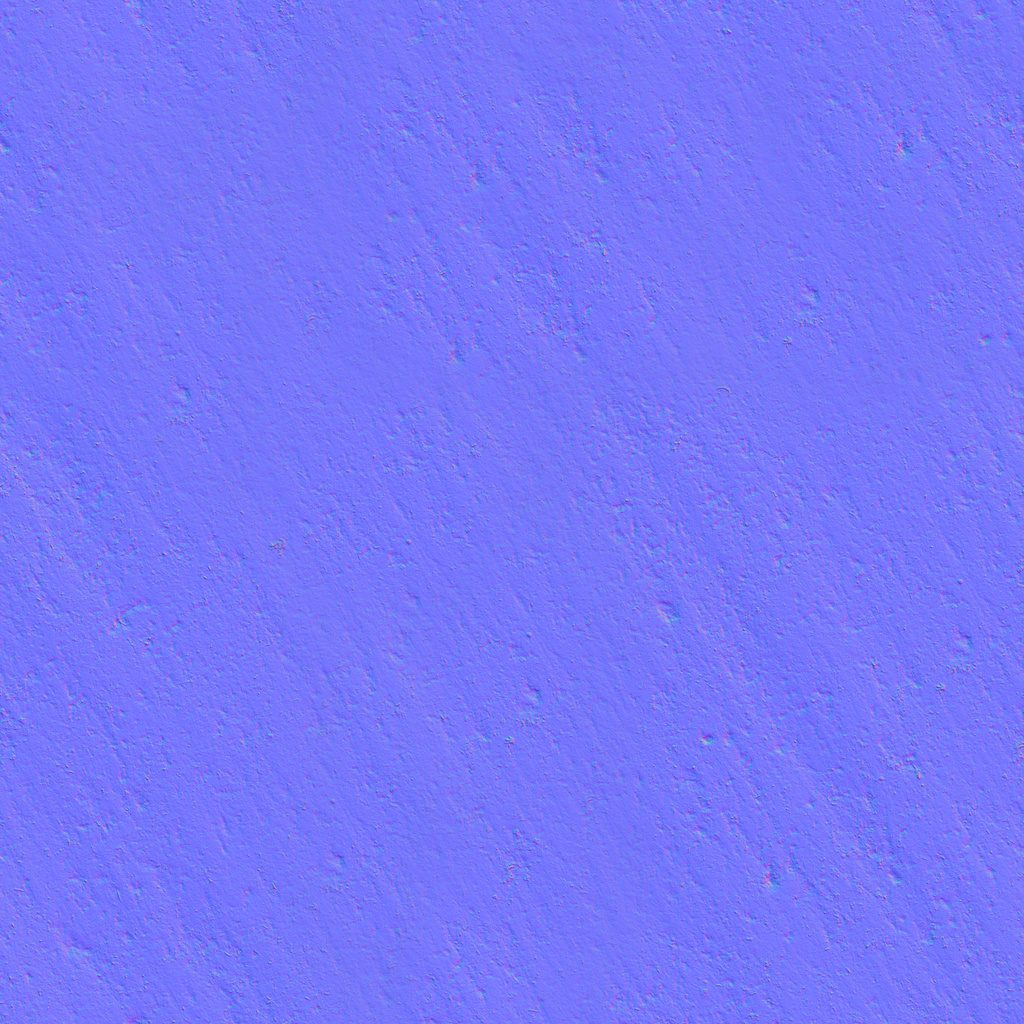
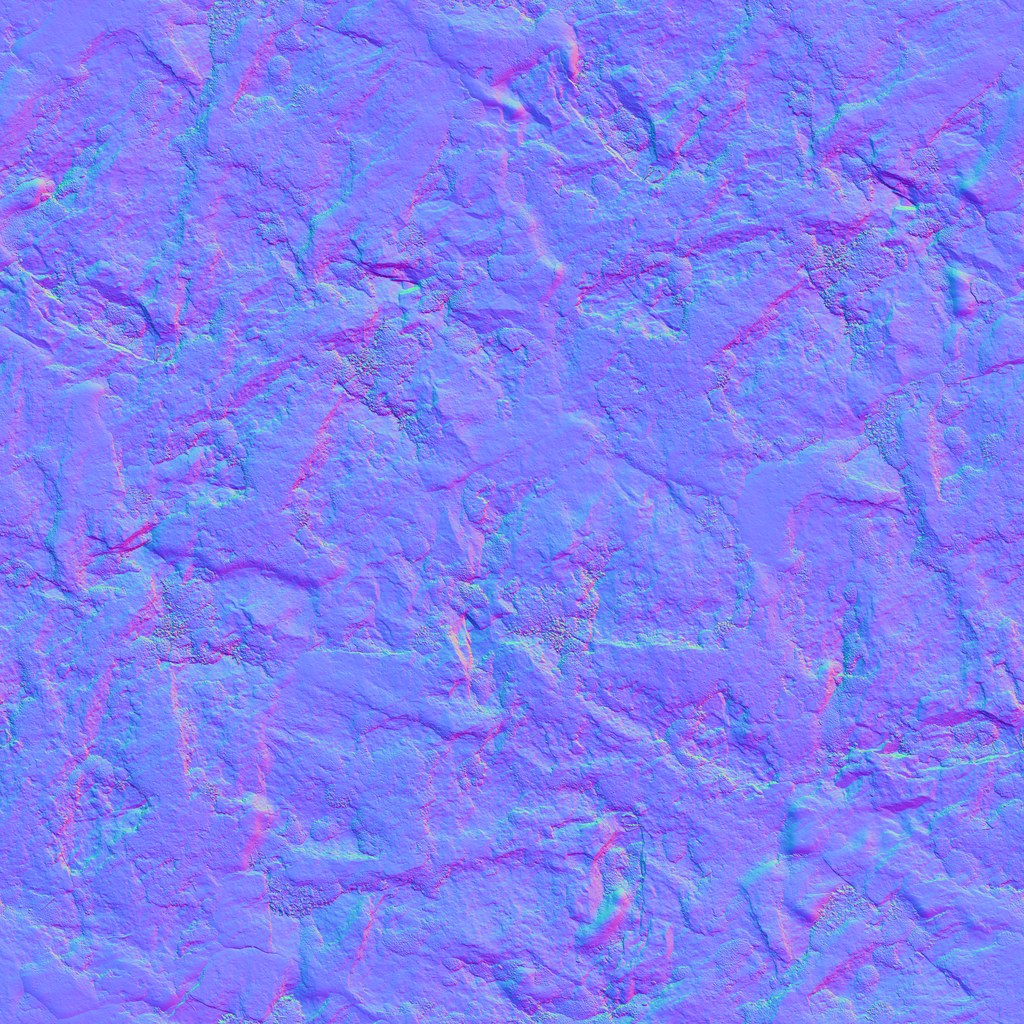
H1: Outlet jets on O'Shaughnessy Dam; grey granite from ambientCG
Two valve outlets ~30 m below the crest near mid-length (placed by eye from a visitor's
photograph; structures.json outlets) pour white aerated plumes down the downstream face to
the pool, with a dark wet stain and black openings on the concrete. Illustrative release.

The granite layers are now grey CC0 ambientCG rock: Rock020 (streaked walls), Rock043L
(speckled slab) and Rock058 (water-polished canyon), replacing brown Poly Haven photos.
Each photo contributes its light and dark in a neutral warm-grey granite colour, with a
fifth of its own hue. Third-party notices list the textures.

diff --git a/renderer/land/structures.js b/renderer/land/structures.js
@@ -6,7 +6,7 @@
 import * as THREE from "../../vendor/three/three.webgpu.js";
 import {
   texture, positionWorld, normalWorld, cameraPosition, vec3, float, max, min, dot, normalize, uv, mix,
-  smoothstep, fract, abs, pow, reflect, mx_noise_float, time,
+  smoothstep, fract, abs, pow, reflect, mx_noise_float, time, Fn, If, Discard,
 } from "../../vendor/three/three.tsl.js";
 
 // Cross-section across the dam in metres: u downstream from the upstream face, y below the
@@ -121,6 +121,66 @@ export function riverGeometry(river, meta) {
   return g;
 }
 
+// Where a dam's outlet sits: { p, t (along the crest), n (downstream), along (m) } for the
+// point `outlet.along` (0-1, from the crest's first point) of its length.
+export function outletFrame(dam, meta, downstream, outlet) {
+  const pts = crestCurve(crestScene(dam, meta)),
+    lengths = [0];
+  for (let i = 1; i < pts.length; i++) lengths.push(lengths[i - 1] + pts[i].distanceTo(pts[i - 1]));
+  const along = outlet.along * lengths.at(-1),
+    i = Math.max(1, lengths.findIndex((l) => l >= along)),
+    f = (along - lengths[i - 1]) / Math.max(1e-6, lengths[i] - lengths[i - 1]),
+    p = new THREE.Vector3().lerpVectors(pts[i - 1], pts[i], f),
+    t = new THREE.Vector3().subVectors(pts[i], pts[i - 1]).normalize(),
+    n = new THREE.Vector3(-t.z, 0, t.x).multiplyScalar(downstream);
+  return { p, t, n, along };
+}
+
+// A jet from an outlet as a ribbon falling down the downstream face to the toe: it leaves the
+// face a little and spreads as it falls (gravityProfile's face: vertical 6 m, then 0.75:1).
+// uv: x 0-1 across, y metres fallen.
+export function plumeGeometry(dam, meta, downstream, outlet) {
+  const { p, t, n } = outletFrame(dam, meta, downstream, outlet),
+    top = dam.crestElevation - meta.waterLevel,
+    positions = [],
+    uvs = [],
+    index = [];
+  const steps = 40;
+  for (let k = 0; k <= steps; k++) {
+    const d = outlet.below + ((dam.height - outlet.below) * k) / steps,
+      fall = d - outlet.below,
+      face = d <= 6 ? 7.5 : 7.5 + 0.75 * (d - 6),
+      off = face + 0.8 + Math.min(2.5, fall * 0.06),
+      half = 0.9 + fall * 0.07;
+    for (const s of [-1, 1]) {
+      positions.push(p.x + n.x * off + t.x * half * s, top - d, p.z + n.z * off + t.z * half * s);
+      uvs.push((s + 1) / 2, fall);
+    }
+    if (k) index.push(2 * k - 2, 2 * k - 1, 2 * k, 2 * k - 1, 2 * k + 1, 2 * k);
+  }
+  const g = new THREE.BufferGeometry();
+  g.setAttribute("position", new THREE.Float32BufferAttribute(positions, 3));
+  g.setAttribute("uv", new THREE.Float32BufferAttribute(uvs, 2));
+  g.setIndex(index);
+  return g;
+}
+
+// Aerated white water streaming down, ragged at its edges. Illustrative; tagged as shaded.
+function plumeMaterial(u, seed) {
+  const q = uv(),
+    streak = mx_noise_float(vec3(q.x.mul(7), q.y.sub(time.mul(9)).mul(0.12), seed)).mul(0.5).add(0.5),
+    fleck = mx_noise_float(vec3(q.x.mul(19), q.y.sub(time.mul(11)).mul(0.5), seed + 3)).mul(0.5).add(0.5),
+    edge = abs(q.x.sub(0.5)).mul(2),
+    m = new THREE.MeshBasicNodeMaterial({ side: THREE.DoubleSide, blending: THREE.NoBlending });
+  m.colorNode = Fn(() => {
+    If(edge.greaterThan(streak.mul(0.35).add(0.62)), () => Discard());
+    const white = mix(vec3(0.55, 0.58, 0.6), vec3(0.95, 0.96, 0.97), streak.mul(0.6).add(fleck.mul(0.4)));
+    return white.mul(u.sunColor.mul(0.45).add(u.fill.mul(0.9)));
+  })();
+  m.opacityNode = float(0.5);
+  return m;
+}
+
 // Dark canyon water: a slowly moving rippled normal, a Fresnel mix of the sky fill over the
 // deep colour, and the sun's glint. Illustrative only (no flow is modelled); tagged as shaded.
 function riverMaterial(u) {
@@ -141,6 +201,15 @@ function riverMaterial(u) {
 }
 
 export async function createStructures(terrain, structures, ground) {
+  // Outlets per dam as (along metres, metres below the crest), for the face's wet stain.
+  const wetTerm = (q, top, frames) =>
+    frames.reduce((acc, { along, below }) => {
+      const fall = float(top - below).sub(positionWorld.y),
+        spread = fall.mul(0.12).add(3.5),
+        across = abs(q.x.mul(11).sub(along)),
+        opening = smoothstep(1.4, 1.0, vec3(across, fall, 0).length());
+      return max(acc, max(smoothstep(spread, spread.mul(0.6), across).mul(smoothstep(-0.5, 0.5, fall)), opening.mul(1.6)));
+    }, float(0));
   const dams = structures?.dams ?? [],
     rivers = structures?.rivers ?? [];
   if (!dams.length && !rivers.length) return null;
@@ -153,29 +222,33 @@ export async function createStructures(terrain, structures, ground) {
     },
     concrete = load("concrete_color.jpg", true),
     u = ground.uniforms,
-    n = normalize(normalWorld),
-    // No blending: the 0.5 alpha is a tag for pack.js, and blending a face over another
-    // (or over the ground) would change it and turn the dam into plain ground.
-    material = new THREE.MeshBasicNodeMaterial({ side: THREE.DoubleSide, blending: THREE.NoBlending });
+    n = normalize(normalWorld);
   // Weathered grey-tan concrete as in photographs of the downstream face: the texture tinted
   // warm, darker pour lines every 1.5 m of height, panel joints every 15 m along the crest,
   // and broad dark water staining down the face; lit by sun and sky fill. Not by the terrain's
   // baked light: the dam stands above that surface (and above the trench cut under its crest),
   // so the bake would stamp the 10 m grid's shadows onto the concrete. A canyon's sky is
   // partly walled in: fill at 80%.
-  const q = uv(),
-    lift = smoothstep(0.9, 0.97, abs(fract(positionWorld.y.div(1.5)).sub(0.5)).mul(2)),
-    joint = smoothstep(0.93, 0.99, abs(fract(q.x.mul(11 / 15)).sub(0.5)).mul(2)),
-    stain = smoothstep(0.55, 0.85, mx_noise_float(vec3(q.x.mul(0.25), positionWorld.y.mul(0.012), 5)).mul(0.5).add(0.5)),
-    photo = texture(concrete, uv()).rgb,
-    albedo = mix(photo, vec3(0.36), 0.7)
-      .mul(vec3(1.25, 1.17, 1.05))
-      .mul(float(1).sub(lift.mul(0.3)).sub(joint.mul(0.2)))
-      .mul(mix(float(1), float(0.55), stain));
-  material.colorNode = albedo.mul(
-    u.sunColor.mul(max(dot(n, u.sun), 0)).add(u.fill.mul(n.y.mul(0.3).add(0.55).mul(0.8))),
-  );
-  material.opacityNode = float(0.5);
+  // Below each outlet the face is dark and wet, and the opening itself is black.
+  const damMaterial = (wetFrames, top) => {
+    const q = uv(),
+      lift = smoothstep(0.9, 0.97, abs(fract(positionWorld.y.div(1.5)).sub(0.5)).mul(2)),
+      joint = smoothstep(0.93, 0.99, abs(fract(q.x.mul(11 / 15)).sub(0.5)).mul(2)),
+      stain = smoothstep(0.55, 0.85, mx_noise_float(vec3(q.x.mul(0.25), positionWorld.y.mul(0.012), 5)).mul(0.5).add(0.5)),
+      wet = wetTerm(q, top, wetFrames),
+      photo = texture(concrete, uv()).rgb,
+      albedo = mix(photo, vec3(0.36), 0.7)
+        .mul(vec3(1.25, 1.17, 1.05))
+        .mul(float(1).sub(lift.mul(0.3)).sub(joint.mul(0.2)))
+        .mul(mix(float(1), float(0.55), stain))
+        .mul(float(1).sub(wet.min(1).mul(0.6)).sub(wet.sub(1).max(0).mul(0.6))),
+      // No blending: the 0.5 alpha is a tag for pack.js, and blending a face over another
+      // (or over the ground) would change it and turn the dam into plain ground.
+      m = new THREE.MeshBasicNodeMaterial({ side: THREE.DoubleSide, blending: THREE.NoBlending });
+    m.colorNode = albedo.mul(u.sunColor.mul(max(dot(n, u.sun), 0)).add(u.fill.mul(n.y.mul(0.3).add(0.55).mul(0.8))));
+    m.opacityNode = float(0.5);
+    return m;
+  };
   const group = new THREE.Group();
   for (const dam of dams) {
     // The dry side is the one whose shore distance grows away from the crest.
@@ -187,9 +260,16 @@ export async function createStructures(terrain, structures, ground) {
       tz = bz - az,
       l = Math.hypot(tx, tz),
       side = terrain.shoreDistance(cx - (tz / l) * 40, cz + (tx / l) * 40) > terrain.shoreDistance(cx + (tz / l) * 40, cz - (tx / l) * 40) ? 1 : -1,
-      mesh = new THREE.Mesh(damGeometry(dam, terrain.meta, side), material);
+      outlets = dam.outlets ?? [],
+      wetFrames = outlets.map((o) => ({ along: outletFrame(dam, terrain.meta, side, o).along, below: o.below })),
+      mesh = new THREE.Mesh(damGeometry(dam, terrain.meta, side), damMaterial(wetFrames, dam.crestElevation - terrain.meta.waterLevel));
     mesh.name = dam.name;
     group.add(mesh);
+    outlets.forEach((o, k) => {
+      const jet = new THREE.Mesh(plumeGeometry(dam, terrain.meta, side, o), plumeMaterial(u, 13 + k * 5));
+      jet.name = `${dam.name} outlet ${k + 1}`;
+      group.add(jet);
+    });
   }
   if (rivers.length) {
     const water = riverMaterial(u);

diff --git a/renderer/land/granite.js b/renderer/land/granite.js
@@ -1,7 +1,7 @@
 // Sierra granite for the ground's rock layer, from photographs rather than drawn cracks:
-// jointed rock on walls (two scales, so real fractures read close up and across the lake),
-// smooth weathered slab on gentle ground and the bleached drawdown band, dark fractured rock
-// in the canyon below a dam. Each CC0 photo is sampled triplanar (cliffs are not smeared by a
+// streaked wall rock (two scales, so it reads close up and across the lake), speckled rough
+// granite on gentle ground and the bleached drawdown band, smooth water-polished rock in the
+// canyon below a dam. A layer marked `upright` turns its side projections 90°. Each CC0 photo is sampled triplanar (cliffs are not smeared by a
 // top-down projection), normalised by its mean colour to the biome's granite albedo, and its
 // normal map perturbs the terrain normal. Big faces turn slowly with a low-frequency bend.
 // Setting only; tuned to photographs of Hetch Hetchy (data/biomes/sierra-granite/biome.json).
@@ -44,7 +44,11 @@ function triplanarNormal(tex, p, n, scale, upright = false) {
 
 // A layer's photo at `scale` metres, recoloured: photo / its mean × target albedo.
 function photo(layer, mean, target, p, n, scale, upright = false) {
-  return triplanar(layer.colour, p, n, scale, upright).rgb.div(vec3(...mean)).mul(target);
+  // Mostly the photo's light and dark, in the target's colour; a fifth of its own hue (full
+  // hue amplifies a photo's tints, e.g. yellow veins into orange, once divided by its mean).
+  const rgb = triplanar(layer.colour, p, n, scale, upright).rgb.div(vec3(...mean)),
+    grey = vec3(dot(rgb, LUMA));
+  return mix(grey, rgb, 0.2).mul(target);
 }
 
 // { albedo, normal } for granite at world p, smooth terrain normal n0 and steepness `slope`
@@ -55,8 +59,9 @@ export function graniteRock(tex, g, p, n0, slope, bank, deep) {
     // Slowly turning big faces (no hard steps: at this size they read as polygons).
     bend = normalize(n0.add(mx_noise_vec3(p.mul(0.012)).mul(0.35))),
     // Walls: jointed rock at 7 m, its tone varied by the same photo at 31 m.
-    near = photo(tex.joints, g.joints.mean, target, p, bend, 7, true),
-    far = triplanar(tex.joints.colour, p, bend, 31, true).rgb,
+    up = !!g.joints.upright,
+    near = photo(tex.joints, g.joints.mean, target, p, bend, 7, up),
+    far = triplanar(tex.joints.colour, p, bend, 31, up).rgb,
     variation = dot(far, LUMA).div(dot(vec3(...g.joints.mean), LUMA)).max(0.05),
     // Water stains: the same photo stretched 6× tall on walls reads as vertical streaks.
     streaks = dot(texture(tex.joints.colour, vec2(p.x.add(p.z).div(18), p.y.div(110))).rgb, LUMA)
@@ -74,8 +79,8 @@ export function graniteRock(tex, g, p, n0, slope, bank, deep) {
   albedo = mix(albedo, bleached, bank);
   albedo = mix(albedo, canyon, deep);
   const offset = mix(
-    mix(triplanarNormal(tex.slab.normal, p, bend, 9), triplanarNormal(tex.joints.normal, p, bend, 7, true), wall).add(
-      triplanarNormal(tex.joints.normal, p, bend, 31, true).mul(wall.mul(1.3)),
+    mix(triplanarNormal(tex.slab.normal, p, bend, 9), triplanarNormal(tex.joints.normal, p, bend, 7, up), wall).add(
+      triplanarNormal(tex.joints.normal, p, bend, 31, up).mul(wall.mul(1.3)),
     ),
     triplanarNormal(tex.canyon.normal, p, bend, 6),
     deep,
